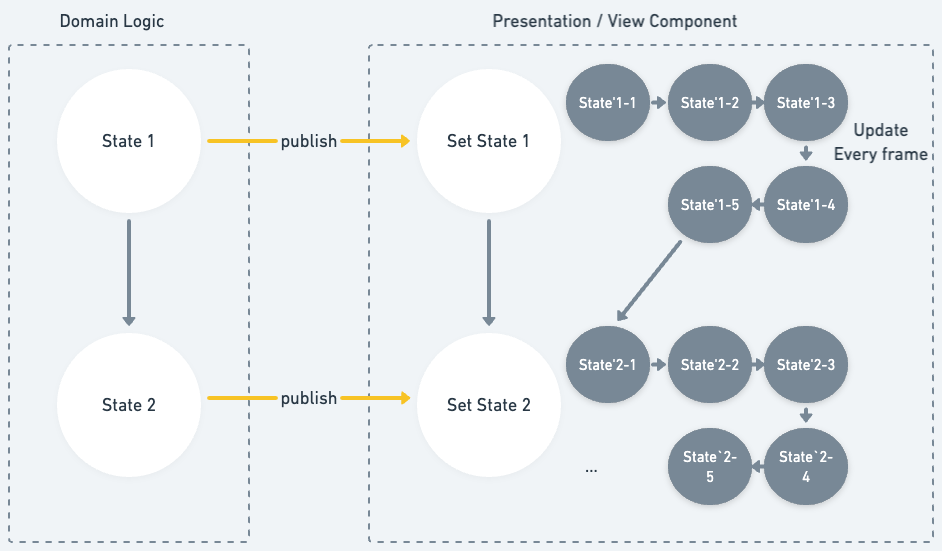
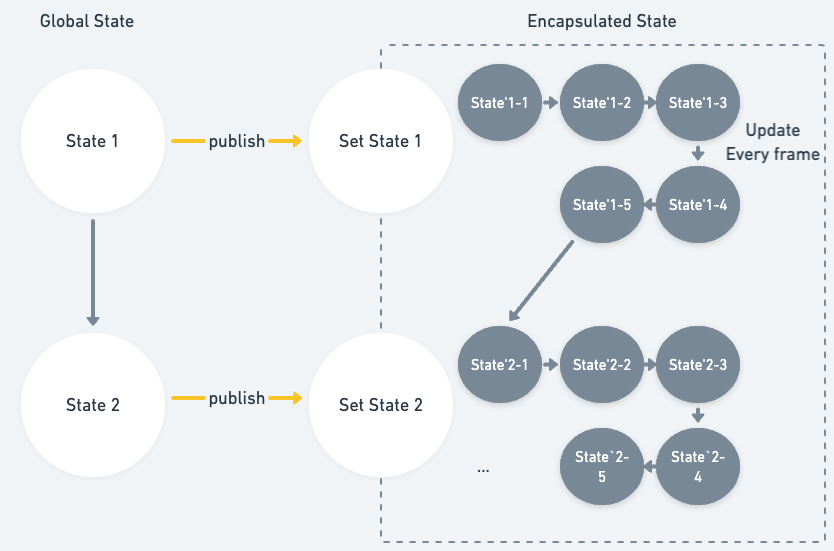
docs

diff --git a/README.md b/README.md
@@ -720,7 +720,7 @@ When the relationship is N:N, bidirectional binding is almost powerless. This is
 Most modern GUI application frameworks recommend an overall unidirectional control flow rather than bidirectional binding.
 Games are more difficult to generalize than GUIs. However, it is still important to organize the "control flow.
 
-### Presentation Domain Separation
+### Distinguish between publishable and encapsulated states
 
 A major concern in game development is creating a Visualize Component that is unique to that game.
 
@@ -735,6 +735,9 @@ It is the latter fact that should be "publich".
 
 Each View Component should hide its own state inside.
 
+So how should granular components expose their own events to the outside world?  Be aware of ownership. An object with ownership of a fine-grained object communicates further outside of it.
+
+<img src="./docs/ownership.png" width="400" />
 
 The "Controller" in MVC is essentially not controlled by anyone. It is the entry point of the system.
 VitalRouter does not require someone to own the Controller, only to declare it in an attribute. So it encourages this kind of design.
